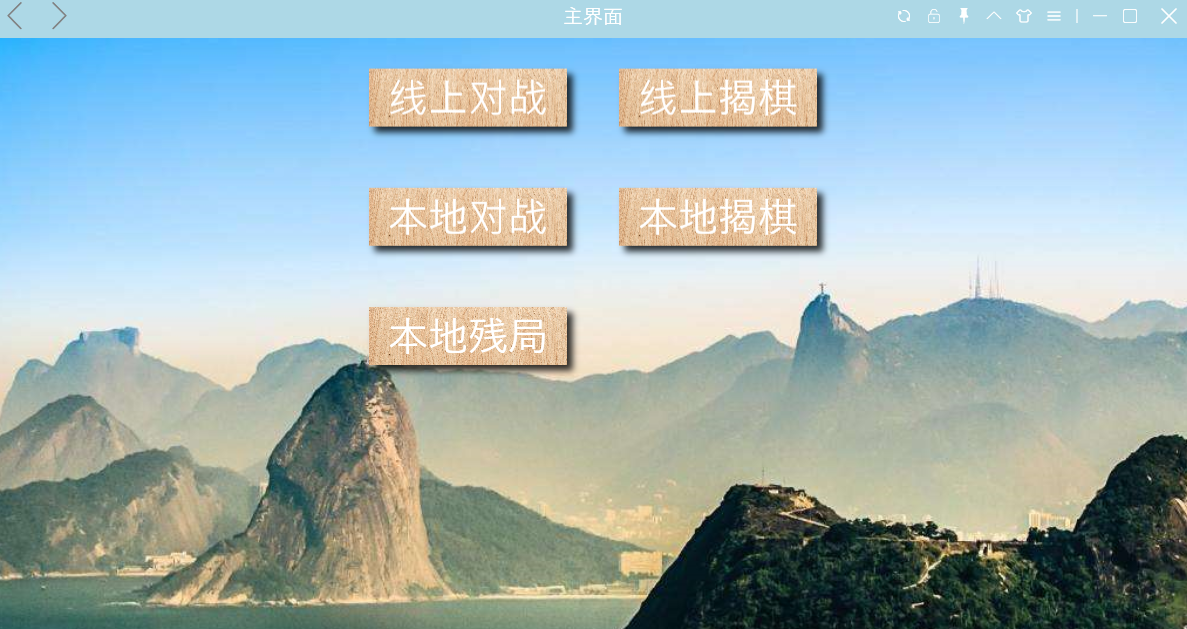
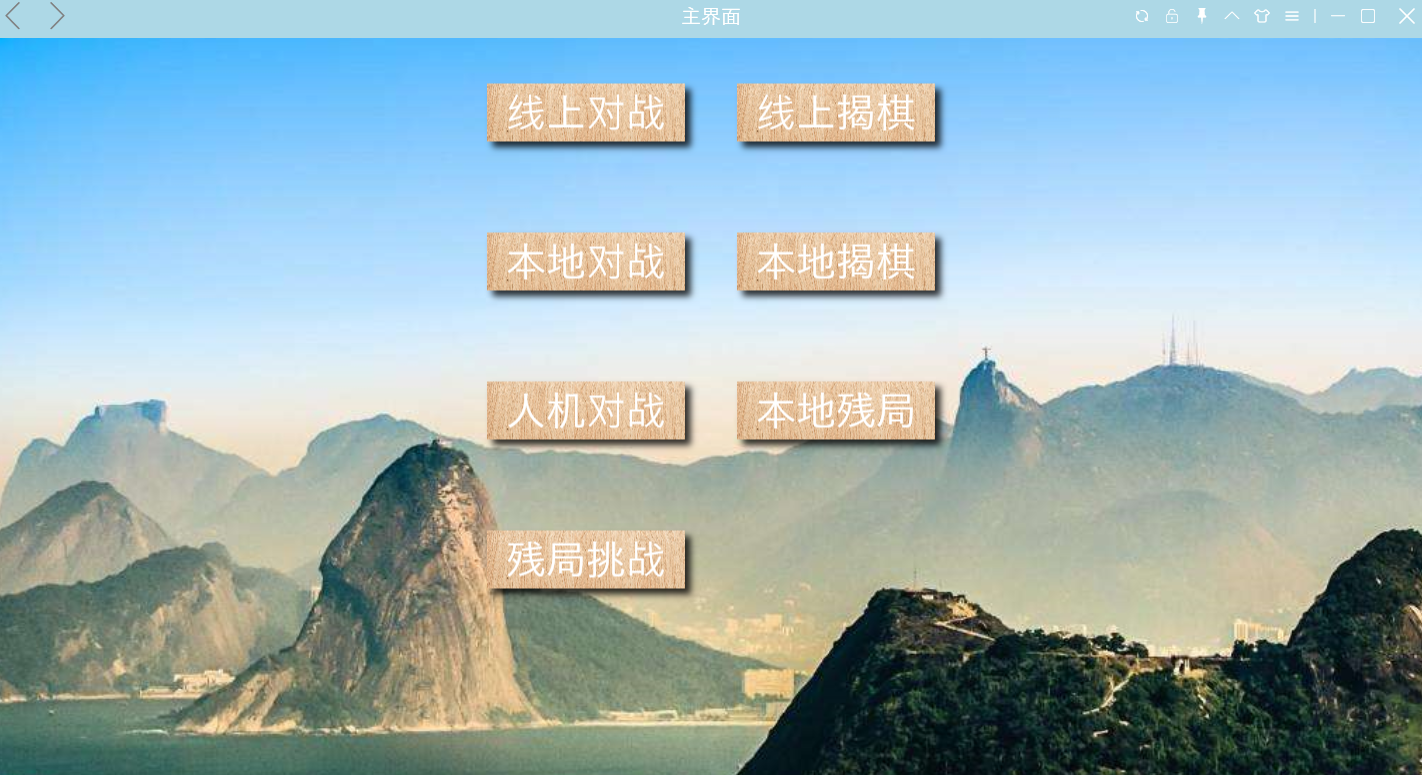
修复本方炮作为炮架被敌方炮将军时，本方炮缺少通过吃子解将的检查导致的棋局结束状态判断错误问题

diff --git a/ChinChessCore/Models/Data/ChinChessPao.cs b/ChinChessCore/Models/Data/ChinChessPao.cs
@@ -1,4 +1,5 @@
-using ChinChessCore.Visitors;
+using ChinChessCore.Contracts;
+using ChinChessCore.Visitors;
 using IceTea.Pure.Extensions;
 using IceTea.Pure.Utils;
 using System;
@@ -35,13 +36,38 @@ namespace ChinChessCore.Models
                 }
             }
 
-            int currentRow = from.Row + rowStep, currentColumn = from.Column + columnStep;
+            return this.TryGetTargetEnemy(canPutToVisitor, from, isHorizontal ? EnumDirection.Up : EnumDirection.Left, out _) 
+                || this.TryGetTargetEnemy(canPutToVisitor, from, isHorizontal ? EnumDirection.Down : EnumDirection.Right, out _);
+        }
+
+        public bool TryGetTargetEnemy(IVisitor visitor, Position fromPos, EnumDirection enumDirection, out Position enemyPos)
+        {
+            int rowStep = 0, columnStep = 0;
+            switch (enumDirection)
+            {
+                case EnumDirection.Up:
+                    rowStep = -1;
+                    break;
+                case EnumDirection.Down:
+                    rowStep = 1;
+                    break;
+                case EnumDirection.Left:
+                    columnStep = -1;
+                    break;
+                case EnumDirection.Right:
+                    columnStep = 1;
+                    break;
+                default:
+                    break;
+            }
+
+            int currentRow = fromPos.Row + rowStep, currentColumn = fromPos.Column + columnStep;
 
             int mountainsCount = 0;
 
             while (currentRow.IsInRange(0, 9) && currentColumn.IsInRange(0, 8))
             {
-                InnerChinChess current = canPutToVisitor.GetChessData(currentRow, currentColumn);
+                InnerChinChess current = visitor.GetChessData(currentRow, currentColumn);
                 if (!current.IsEmpty)
                 {
                     mountainsCount++;
@@ -50,16 +76,19 @@ namespace ChinChessCore.Models
                     {
                         if (this.IsEnemy(current))
                         {
+                            enemyPos = new Position(currentRow, currentColumn);
                             return true;
                         }
 
-                        return false;
+                        break;
                     }
                 }
 
                 currentRow += rowStep;
                 currentColumn += columnStep;
             }
+
+            enemyPos = default;
 
             return false;
         }

diff --git a/ChinChessCore/Visitors/GuardVisitor.cs b/ChinChessCore/Visitors/GuardVisitor.cs
@@ -89,15 +89,16 @@ namespace ChinChessCore.Visitors
             var pos = new Position(currentRow, currentColumn);
 
             #region 士
-            while (fromPos != pos && chess.IsPoseValid_Rel(ChessType.仕, pos))
+            while (fromPos != pos && chess.IsPosValid_Rel(ChessType.仕, pos))
             {
                 if (this.ProtectByShield(chess, pos, toPos, ChessType.仕, new[]
-                {
-                new Position(pos.Row - 1, pos.Column - 1),
-                new Position(pos.Row - 1, pos.Column + 1),
-                new Position(pos.Row + 1, pos.Column - 1),
-                new Position(pos.Row + 1, pos.Column + 1)
-            }))
+                        {
+                            new Position(pos.Row - 1, pos.Column - 1),
+                            new Position(pos.Row - 1, pos.Column + 1),
+                            new Position(pos.Row + 1, pos.Column - 1),
+                            new Position(pos.Row + 1, pos.Column + 1)
+                        })
+                    )
                 {
                     return true;
                 }
@@ -110,7 +111,7 @@ namespace ChinChessCore.Visitors
             currentRow = toRow + rowStep; currentColumn = toColumn + columnStep;
             pos = new Position(currentRow, currentColumn);
 
-            while (fromPos != pos && chess.IsPoseValid_Rel(ChessType.相, pos))
+            while (fromPos != pos && chess.IsPosValid_Rel(ChessType.相, pos))
             {
                 if (this.ProtectByShield(chess, pos, toPos, ChessType.相, new[]
                 {
@@ -173,7 +174,7 @@ namespace ChinChessCore.Visitors
             }
             #endregion
 
-            #region 車、炮
+            #region 車、炮  垫
             currentRow = toRow + rowStep; currentColumn = toColumn + columnStep;
             pos = new Position(currentRow, currentColumn);
 
@@ -279,6 +280,17 @@ namespace ChinChessCore.Visitors
                 }
 
                 pos = new Position(currentRow += rowStep, currentColumn += columnStep);
+            }
+            #endregion
+
+            #region 炮  抽
+            if (chess.Type == ChessType.炮)
+            {
+                if(_canPutToVisitor.GetChessData(fromPos.Row, fromPos.Column)
+                    .CanLeave(_canPutToVisitor, fromPos, fromPos.Row == toPos.Row))
+                {
+                    return true;
+                }
             }
             #endregion
 

diff --git a/ChinChessClient/ViewModels/Offlines/OfflineEndGamesViewModel.cs b/ChinChessClient/ViewModels/Offlines/OfflineEndGamesViewModel.cs
@@ -30,7 +30,7 @@ internal class OfflineEndGamesViewModel : NavigateViewModelBase
 
         this.GoToPlayManualCommand = new DelegateCommand<EndGameModel>(
             model => regionManager.RequestNavigate("ChinChessRegion", "OfflineCustom",
-            nr => eventAggregator.GetEvent<MainTitleChangedEvent>().Publish($"{this.Title}-{model.Name}"),
+            nr => eventAggregator.GetEvent<MainTitleChangedEvent>().Publish($"残局挑战-{model.Name}"),
             new NavigationParameters()
             {
                 {"EndGame", model },
@@ -40,7 +40,7 @@ internal class OfflineEndGamesViewModel : NavigateViewModelBase
 
         this.GoToPlayAnswerCommand = new DelegateCommand<EndGameModel>(
             model => regionManager.RequestNavigate("ChinChessRegion", "OfflineAnswer",
-            nr => eventAggregator.GetEvent<MainTitleChangedEvent>().Publish($"{this.Title}-{model.Name}"),
+            nr => eventAggregator.GetEvent<MainTitleChangedEvent>().Publish($"残局观摩-{model.Name}"),
             new NavigationParameters()
             {
                 {"EndGame", model },

diff --git a/ChinChessCore/Models/Data/InnerChinChess.cs b/ChinChessCore/Models/Data/InnerChinChess.cs
@@ -268,6 +268,14 @@ namespace ChinChessCore.Models
         }
         #endregion
 
+        /// <summary>
+        /// 用于帮凶离开本位置
+        /// </summary>
+        /// <param name="canPutToVisitor"></param>
+        /// <param name="from"></param>
+        /// <param name="isHorizontal">杀手和被害者是否同一行</param>
+        /// <returns></returns>
+        /// <exception cref="NotImplementedException"></exception>
         public virtual bool CanLeave(ICanPutToVisitor canPutToVisitor, Position from, bool isHorizontal = true)
             => throw new NotImplementedException();
 
@@ -324,7 +332,7 @@ namespace ChinChessCore.Models
         public bool IsPosValid(Position pos)
             => this.IsPosValid_Abs((ChessType)this.Type, pos, false);
 
-        public bool IsPoseValid_Rel(ChessType chessType, Position pos, bool isEnemy = true)
+        public bool IsPosValid_Rel(ChessType chessType, Position pos, bool isEnemy = true)
         {
             if (chessType != ChessType.帥 && this.IsJieQi && !this.IsBack)
             {

diff --git a/ChinChessCore/Contracts/ChinChessMovePathTranslator.cs b/ChinChessCore/Contracts/ChinChessMovePathTranslator.cs
@@ -41,13 +41,11 @@ namespace ChinChessCore.Contracts
 
             int fromColumn = Constants.GetRowOrColumnFromChar(fromChar);
 
-            AppUtils.AssertDataValidation(Enum.TryParse<EnumMoveDirection>(notation[notaionLength - 2].ToString(), out EnumMoveDirection direction), "数据格式不对");
-
-            char targetChar = notation[notaionLength - 1];
-
-
             // 计算起始位置和目标位置
             var fromPosition = CalculateStartPosition(nthChess, chessType, fromColumn, isRed, currentBoard);
+
+            AppUtils.AssertDataValidation(Enum.TryParse<EnumMoveDirection>(notation[notaionLength - 2].ToString(), out EnumMoveDirection direction), "数据格式不对");
+            char targetChar = notation[notaionLength - 1];
             var toPosition = CalculateTargetPosition(chessType, fromPosition, direction, targetChar, isRed);
 
             return new MovePath(fromPosition, toPosition);

diff --git a/ChinChessClient/ViewModels/Offlines/OfflineCustomViewModel.cs b/ChinChessClient/ViewModels/Offlines/OfflineCustomViewModel.cs
@@ -79,6 +79,8 @@ internal class OfflineCustomViewModel : OfflineChinChessViewModelBase
 
             DesignName = string.Empty;
 
+            this.PublishMsg("已保存布局");
+
             eventAggregator.GetEvent<MainTitleChangedEvent>().Publish(name);
         }).ObservesCanExecute(() => IsSaving);
 
@@ -91,6 +93,8 @@ internal class OfflineCustomViewModel : OfflineChinChessViewModelBase
             configManager.WriteConfigNode<EndGameModel>(_endGameModel, ["EndGames", _endGameModel.Name]);
 
             this.Log(this.Name, "保存行棋步骤", this.IsRedTurn);
+
+            this.PublishMsg("已保存行棋步骤");
 
             if (!this.IsGameOver())
             {

diff --git a/ChinChessCore/Contracts/EnumDirection.cs b/ChinChessCore/Contracts/EnumDirection.cs
@@ -1,0 +1,10 @@
+namespace ChinChessCore.Contracts
+{
+    public enum EnumDirection
+    {
+        Up, 
+        Down, 
+        Left, 
+        Right
+    }
+}

diff --git a/README.md b/README.md
@@ -1,7 +1,10 @@
 # ChinChess
 ![主界面](ChinChessClient/Resources/Demos/主界面.png)
-![本地版](ChinChessClient/Resources/Demos/本地版.png)
-![本地揭棋](ChinChessClient/Resources/Demos/本地揭棋.png)
-![残局设计](ChinChessClient/Resources/Demos/残局设计.png)
 ![在线对战](ChinChessClient/Resources/Demos/在线对战.png)
 ![揭棋在线版](ChinChessClient/Resources/Demos/揭棋在线版.png)
+![本地版](ChinChessClient/Resources/Demos/本地版.png)
+![本地揭棋](ChinChessClient/Resources/Demos/本地揭棋.png)
+![人机对战](ChinChessClient/Resources/Demos/人机对战.png)
+![残局设计](ChinChessClient/Resources/Demos/残局设计.png)
+![残局挑战](ChinChessClient/Resources/Demos/残局挑战.png)
+![残局观摩](ChinChessClient/Resources/Demos/残局观摩.png)
